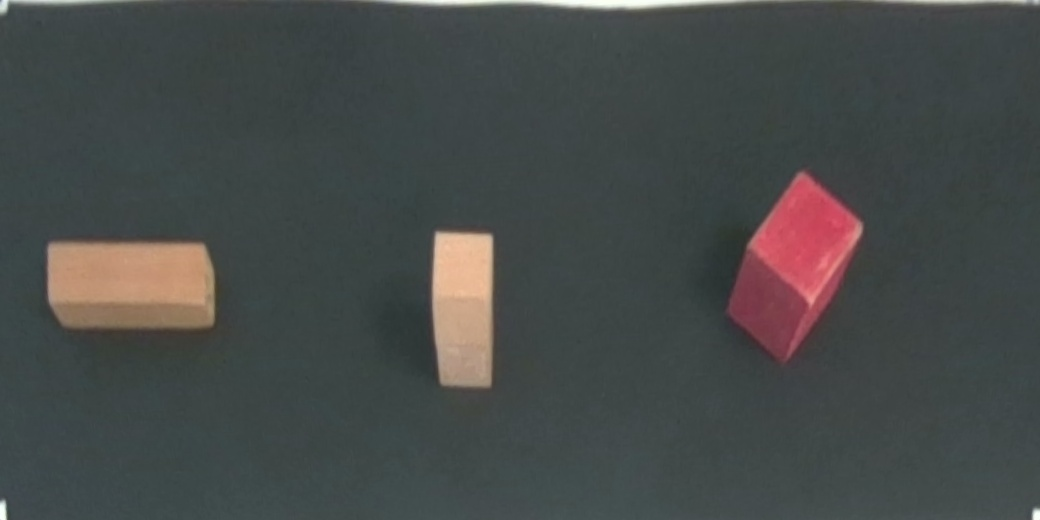
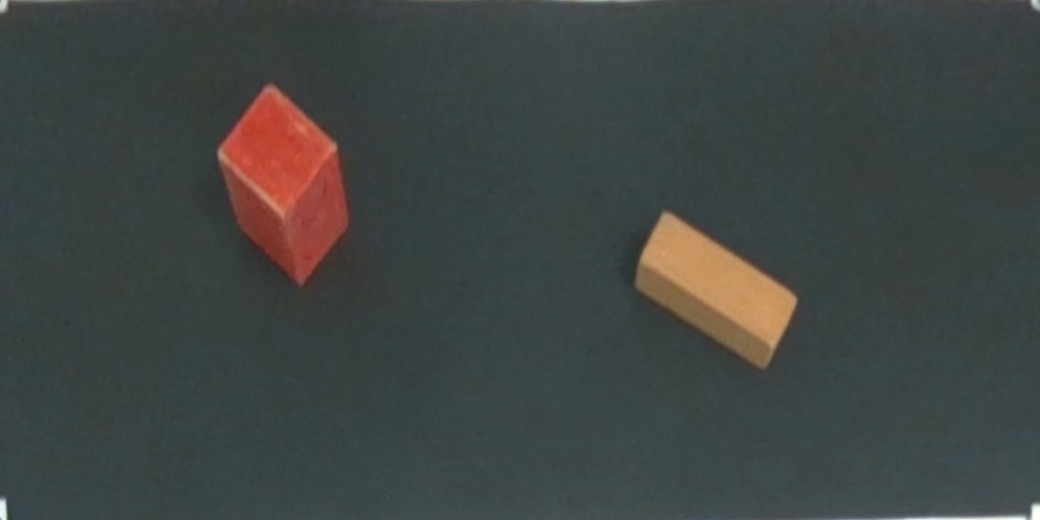
Robot pickup works

diff --git a/Robot_Control/block_stack.py b/Robot_Control/block_stack.py
@@ -5,8 +5,8 @@ import time
 
 arm = XArmAPI('192.168.1.165')
 initial_position = [200,0,200,180,0,0]
-arm.set_collision_rebound(on=True)
-
+arm.set_collision_rebound(on=False)
+arm.set_collision_sensitivity(5, wait=True)
 
 def complete_clean():
   arm.clean_error()
@@ -15,20 +15,41 @@ def complete_clean():
   arm.set_state(state=0)
   time.sleep(0.5)
 
+def move_down():
+  cur = []
+  position = arm.get_position()[1]
+  count = 0
+  avg = 0
+  while not (np.linalg.norm(arm.currents) < 0.85 * avg and count > 20):
+    # arm.set_position_aa([*start_pos, arm.get_position()[1][2]-5, 180, 0, 0], speed=20 ,wait=True)
+    arm.set_position_aa(position, speed=40 ,wait=True)
+    cur.append(np.linalg.norm(arm.currents))
+    position[2]-=2
+    avg = np.mean(cur)
+    # if (count > 20):
+    #   if (np.linalg.norm(arm.currents) < 0.8 * avg):
+    #     print("done frfr")
+    #     break
+    print(np.linalg.norm(arm.currents))
+    print("\n")
+    count += 1
 
 def stack_func(start_pos, end_pos):
 
   complete_clean()
   arm.set_position_aa([*start_pos,200,180,0,0],wait=True)
+  # z=arm.get_position()[1][2]
   time.sleep(0.5)
-  arm.set_position_aa([*start_pos, 0, 180, 0, 0], speed=20 ,wait=True)
+  move_down()
 
-  # complete_clean()
+
+
   #arm.config_cgpio_reset_when_stop(on_off=True)
-
   # arm.set_collision_rebound(on=False)
   complete_clean()
-  arm.set_position_aa([*start_pos, arm.get_position()[1][2] + 10, 180, 0, 0], wait=True)
+  time.sleep(0.5)
+  arm.set_position_aa([*start_pos, arm.get_position()[1][2]+5, 180, 0, 0],speed=40, wait=True)
+
 
   # curr_position = arm.get_position()
   # curr_position[1][2] -= 10
@@ -36,17 +57,17 @@ def stack_func(start_pos, end_pos):
   time.sleep(0.5)
   arm.set_vacuum_gripper(on=True, wait=True)
 
-
   arm.set_position_aa([*start_pos,200,180,0,0],wait=True)
+
   arm.set_position_aa([*end_pos,200,180,0,0],wait=True)
-  arm.set_position_aa([*end_pos,0,180,0,0],speed=20,wait=True)
-
+  move_down()
   complete_clean()
-  arm.set_position_aa([*end_pos, arm.get_position()[1][2]+10, 180, 0, 0], wait=True)
+
+  arm.set_position_aa([*end_pos, arm.get_position()[1][2]+5, 180, 0, 0], wait=True)
   time.sleep(0.5)
-
-
   arm.set_vacuum_gripper(False, wait=True)
+
+
   arm.set_position_aa([*end_pos,200,180,0,0],wait=True)
   arm.set_position_aa(initial_position,wait=True)
 

diff --git a/main.py b/main.py
@@ -50,7 +50,7 @@ for set in range(len(corners)):
     transformed_points = np.squeeze(
     cv2.perspectiveTransform(np.array(corners[set]).reshape(-1, 1, 2), M_table_to_robot))
     center_transformed = np.average(transformed_points, axis=0)
-    center_transformed[0] +=  0.43 * length
+    center_transformed[0] +=  0.40 * length
     center_transformed[1] +=  0.20 * h_means[set][0]
     centers.append(center_transformed)
 
